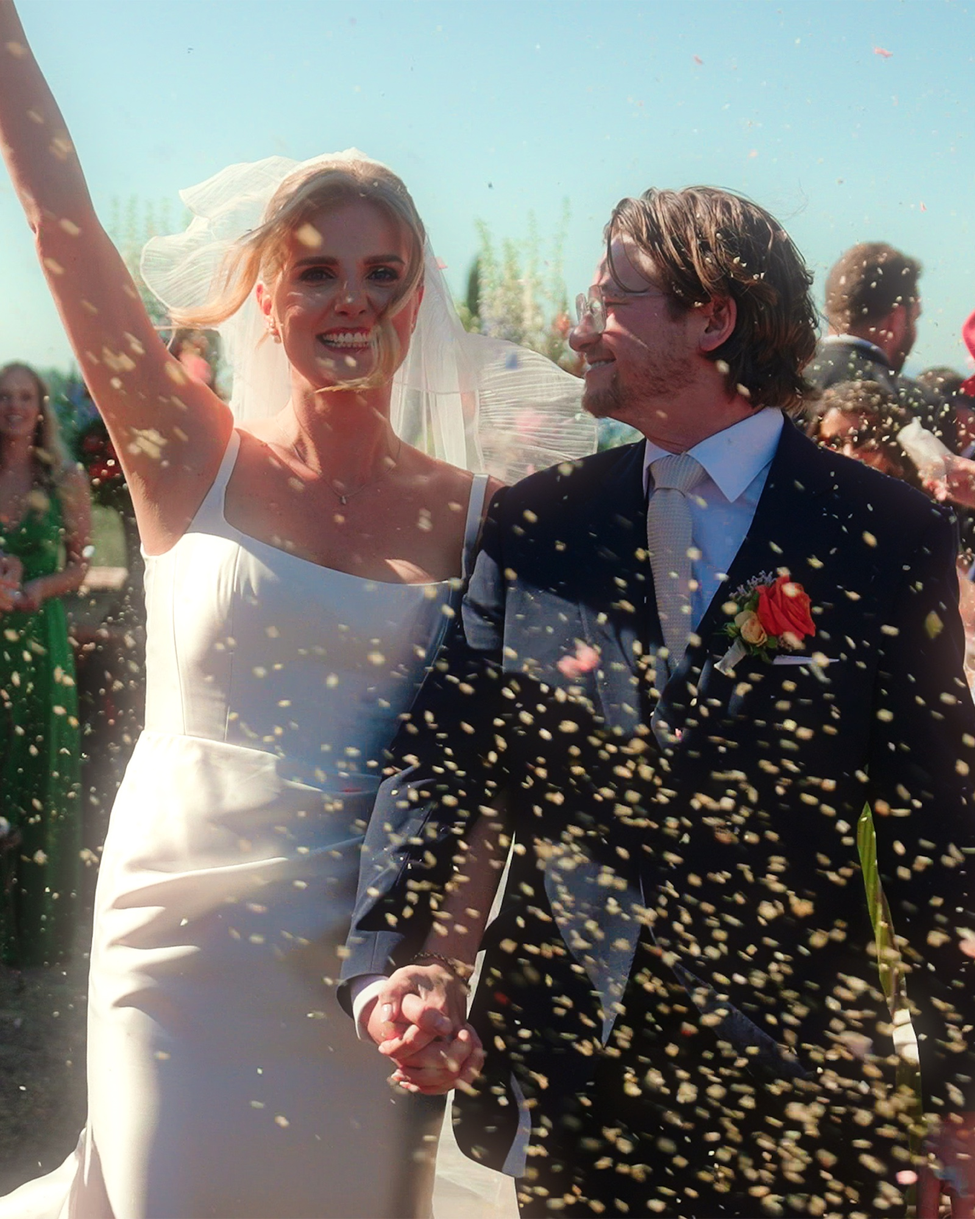
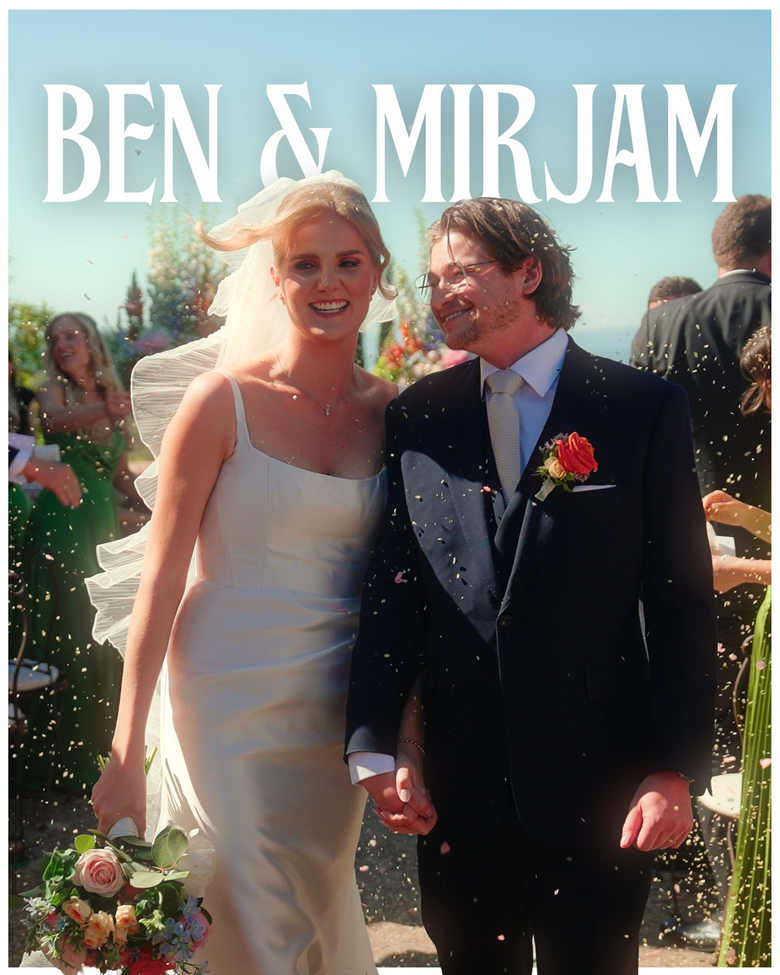
Update Ben & Mirjam home page grid image to poster treatment
Newer export with a title-card style overlay, matching the same
poster treatment used for Zero to 100 and Liberté.

diff --git a/src/lib/work.ts b/src/lib/work.ts
@@ -339,7 +339,7 @@ export const workProjects: WorkProject[] = [
     },
     gridCover: {
       src: "/images/work/weddings/ben-mirjam-4x5-cover.jpg",
-      alt: "Bride and groom walking hand in hand through confetti",
+      alt: "Ben & Mirjam poster: bride and groom smiling arm in arm through confetti",
     },
     gallery: [
       { src: "/images/work/weddings/weddings-06.jpg", alt: "Bride and groom embracing in golden light" },
